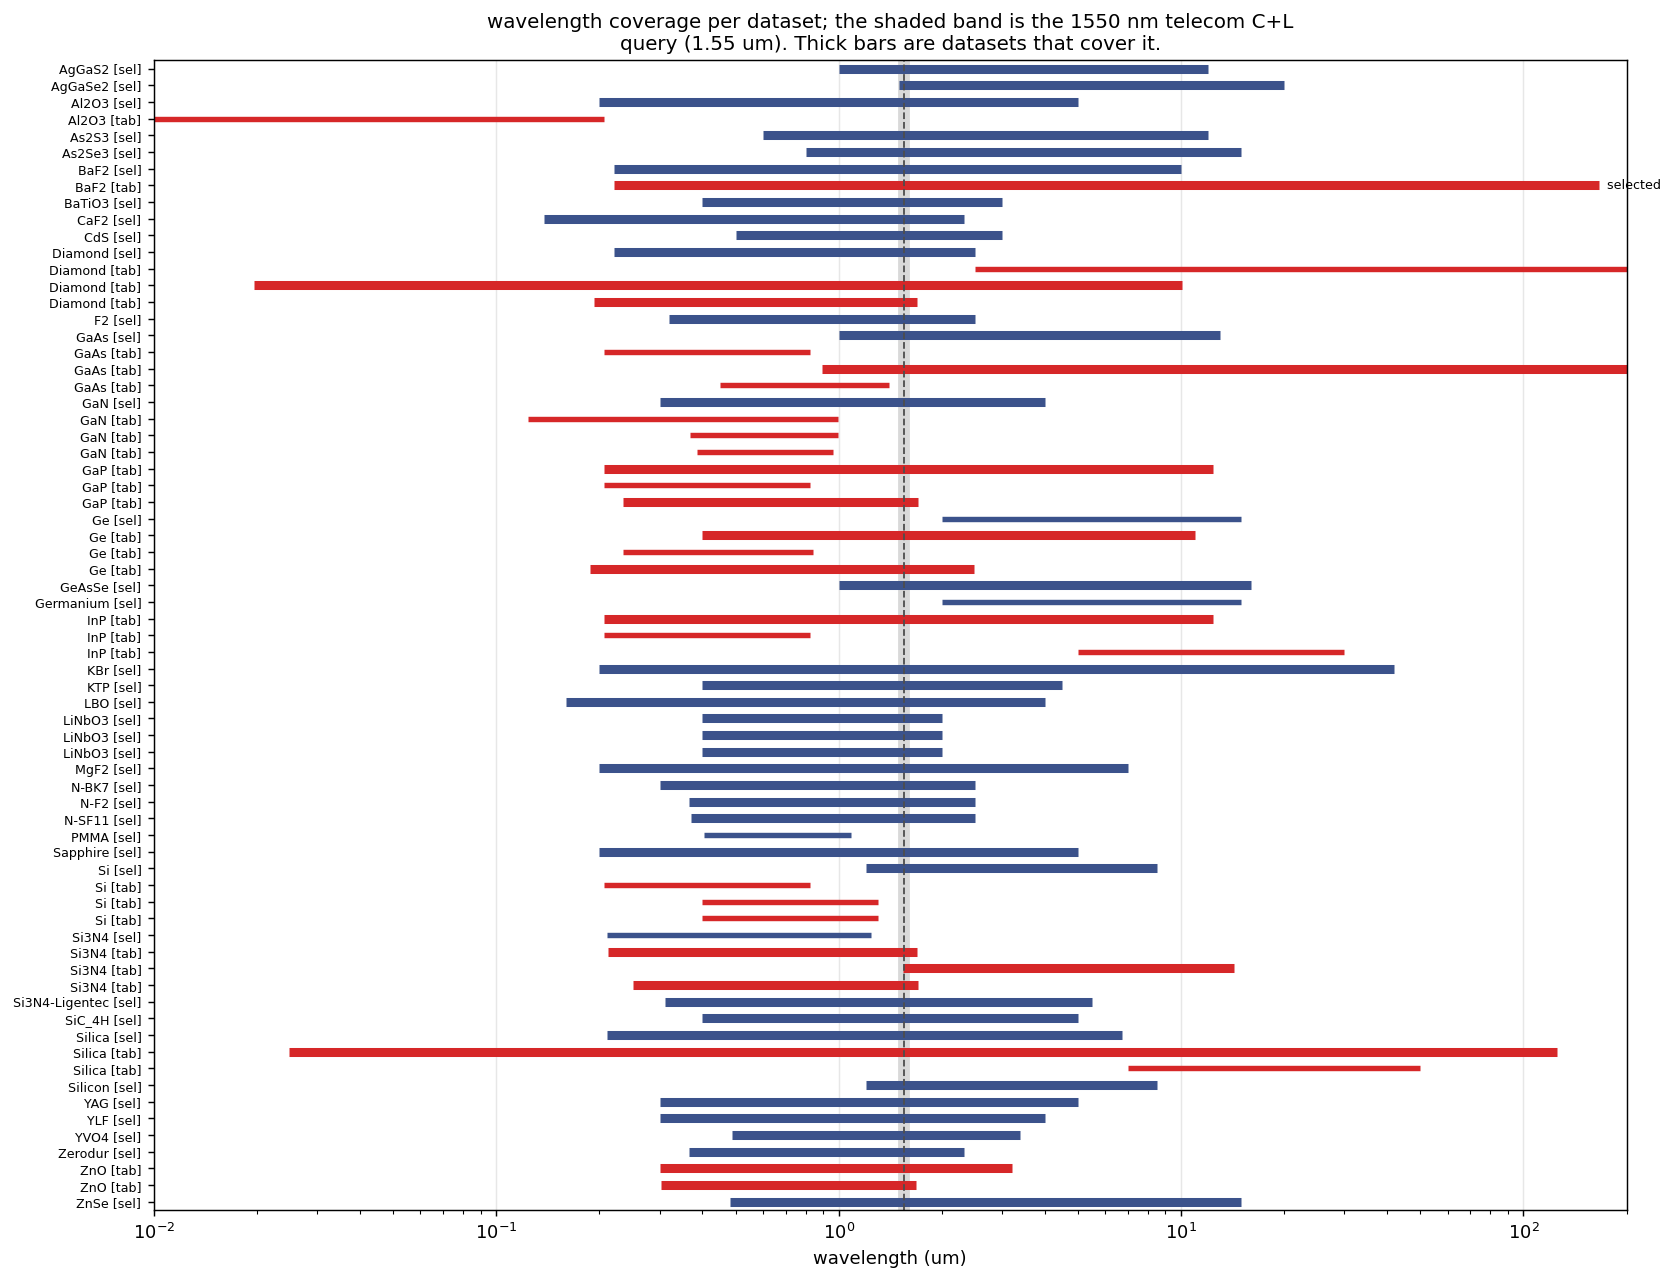
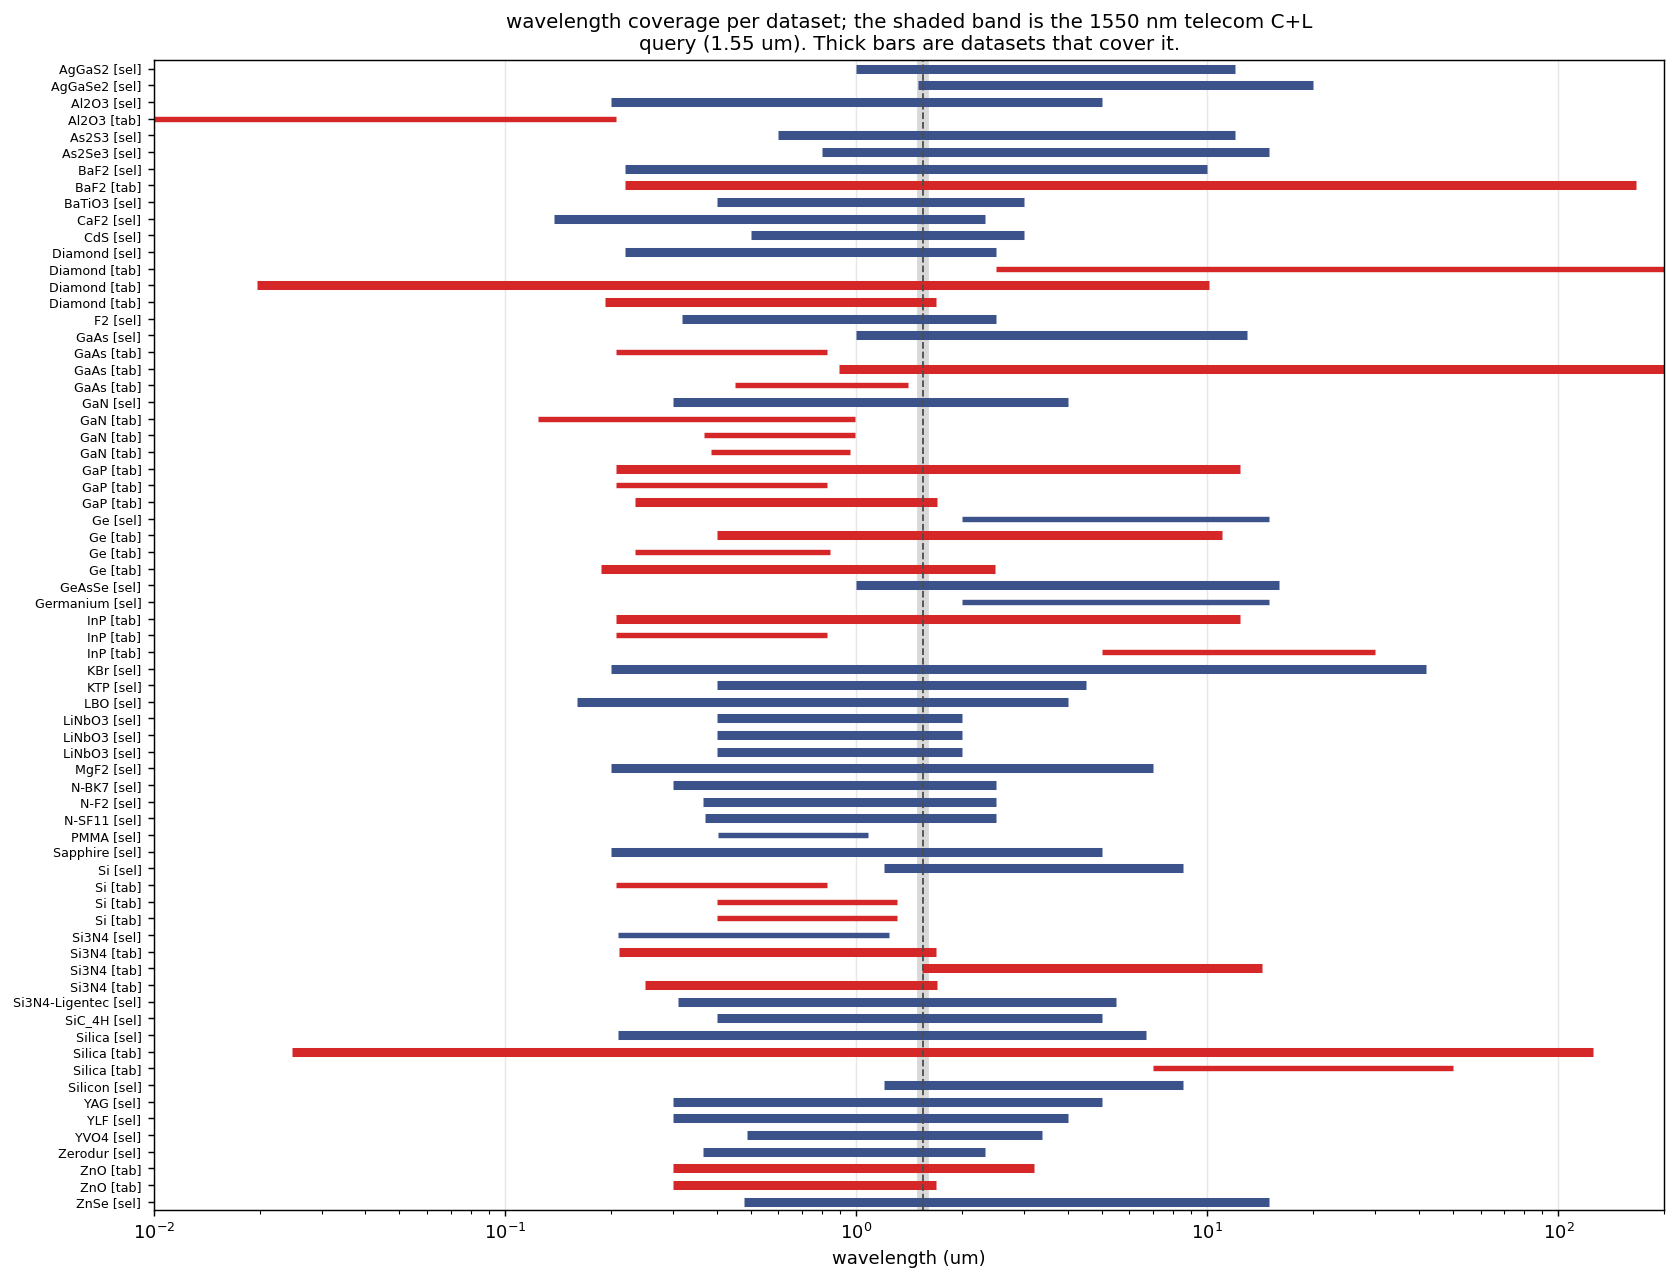
fix(materials): longest-known-material-prefix key resolution
Hyphenated author keys (e.g. si3n4-vogt-1-91) load correctly instead of
mangling on the first-hyphen split; example 43 now asserts source
resolvability instead of reporting it; unknown-key errors name the
would-be first-hyphen split. tests/test_material_key_split.py (8 tests).

diff --git a/tests/test_material_key_split.py b/tests/test_material_key_split.py
@@ -1,0 +1,50 @@
+"""Regression test for fix-material-dataset-key-split.
+
+Every tabulated ``source_key`` returned by ``material_catalog()`` must load
+through ``RefractiveIndex.from_material_database``, including keys whose
+author field itself contains hyphens. Genuinely unknown keys must still raise
+``ValueError`` naming the full key (no silent Sellmeier fallback).
+"""
+
+import pytest
+
+from photonics_helper.materials import RefractiveIndex, material_catalog
+
+
+def test_all_shipped_source_keys_load():
+    catalog = [d for d in material_catalog() if d.kind == "tabulated"]
+    assert len(catalog) == 30
+    failures = []
+    for d in catalog:
+        try:
+            ri = RefractiveIndex.from_material_database(d.source_key)
+        except Exception as exc:  # noqa: BLE001
+            failures.append(f"{d.source_key}: {exc}")
+            continue
+        wl = ri.wl.as_um
+        if len(wl) != d.n_points:
+            failures.append(
+                f"{d.source_key}: catalog n_points={d.n_points} != loaded {len(wl)}"
+            )
+    assert not failures, "unresolvable source_keys:\n  " + "\n  ".join(failures)
+
+
+@pytest.mark.parametrize(
+    "key",
+    [
+        "si3n4-vogt-1-91",  # <mat>-<author>-<suffix> shape
+        "gan-lin-wurtzite",  # multi-char author with hyphen
+        "gan-lin-zincblende",
+        "gaas-franta-300k",
+        "si-wang-25c",
+        "si-aspnes",  # single-hyphen control
+    ],
+)
+def test_hyphenated_author_key_shapes(key):
+    ri = RefractiveIndex.from_material_database(key)
+    assert len(ri.wl.as_um) > 0
+
+
+def test_unknown_key_raises_naming_full_key():
+    with pytest.raises(ValueError, match="does-not-exist"):
+        RefractiveIndex.from_material_database("does-not-exist")

diff --git a/examples/43_material_catalog_query.py b/examples/43_material_catalog_query.py
@@ -382,22 +382,23 @@ def run_consistency(catalog: list[MaterialDataset]) -> dict:
 
     print()
     print(
-        f"  source resolvability: {len(unresolvable)} tabulated dataset(s) "
-        f"are listed in the"
+        f"  source resolvability: {len(resolvable)} of "
+        f"{len(resolvable) + len(unresolvable)} tabulated datasets load "
+        "through the public entry point"
     )
-    print("  catalog but cannot be loaded through the public entry point:")
     for key, reason in unresolvable:
         print(f"     {key:<22} {reason}")
-    print("  The `material-author` key is split on the first hyphen, so any key")
-    print("  whose *author* field itself contains a hyphen is mangled. This is a")
-    print("  defect in the loader, not in the data, and it is reported here")
-    print("  rather than patched: see the `fix-material-dataset-key-split`")
-    print("  change. The example therefore does NOT assert resolvability.")
+    print("  Keys resolve by longest-known-material-prefix match, so")
+    print("  hyphenated authors (e.g. si3n4-vogt-1-91) load correctly.")
+    assert not unresolvable, (
+        "tabulated source_key(s) listed in the catalog but not loadable:\n  "
+        + "\n  ".join(f"{k}: {r}" for k, r in unresolvable)
+    )
 
     assert not problems, (
         "the shipped database is internally inconsistent:\n  " + "\n  ".join(problems)
     )
-    print("  no structural violations ✓  (resolvability reported, not asserted)")
+    print("  no structural violations ✓  (source resolvability asserted)")
     return {
         "problems": problems,
         "resolvable": resolvable,

diff --git a/photonics_helper/materials.py b/photonics_helper/materials.py
@@ -534,8 +534,11 @@ class RefractiveIndex:
                     canonical = resolved
                     break
             if canonical is None:
+                first_guess = parts[0]
                 raise ValueError(
-                    f"Unknown material in '{material}'. "
+                    f"Unknown material in '{material}' "
+                    f"(tried longest-known-material-prefix match; "
+                    f"first-hyphen split would give material={first_guess!r}). "
                     "Known materials: "
                     f"{', '.join(db.list_materials())}"
                 )
